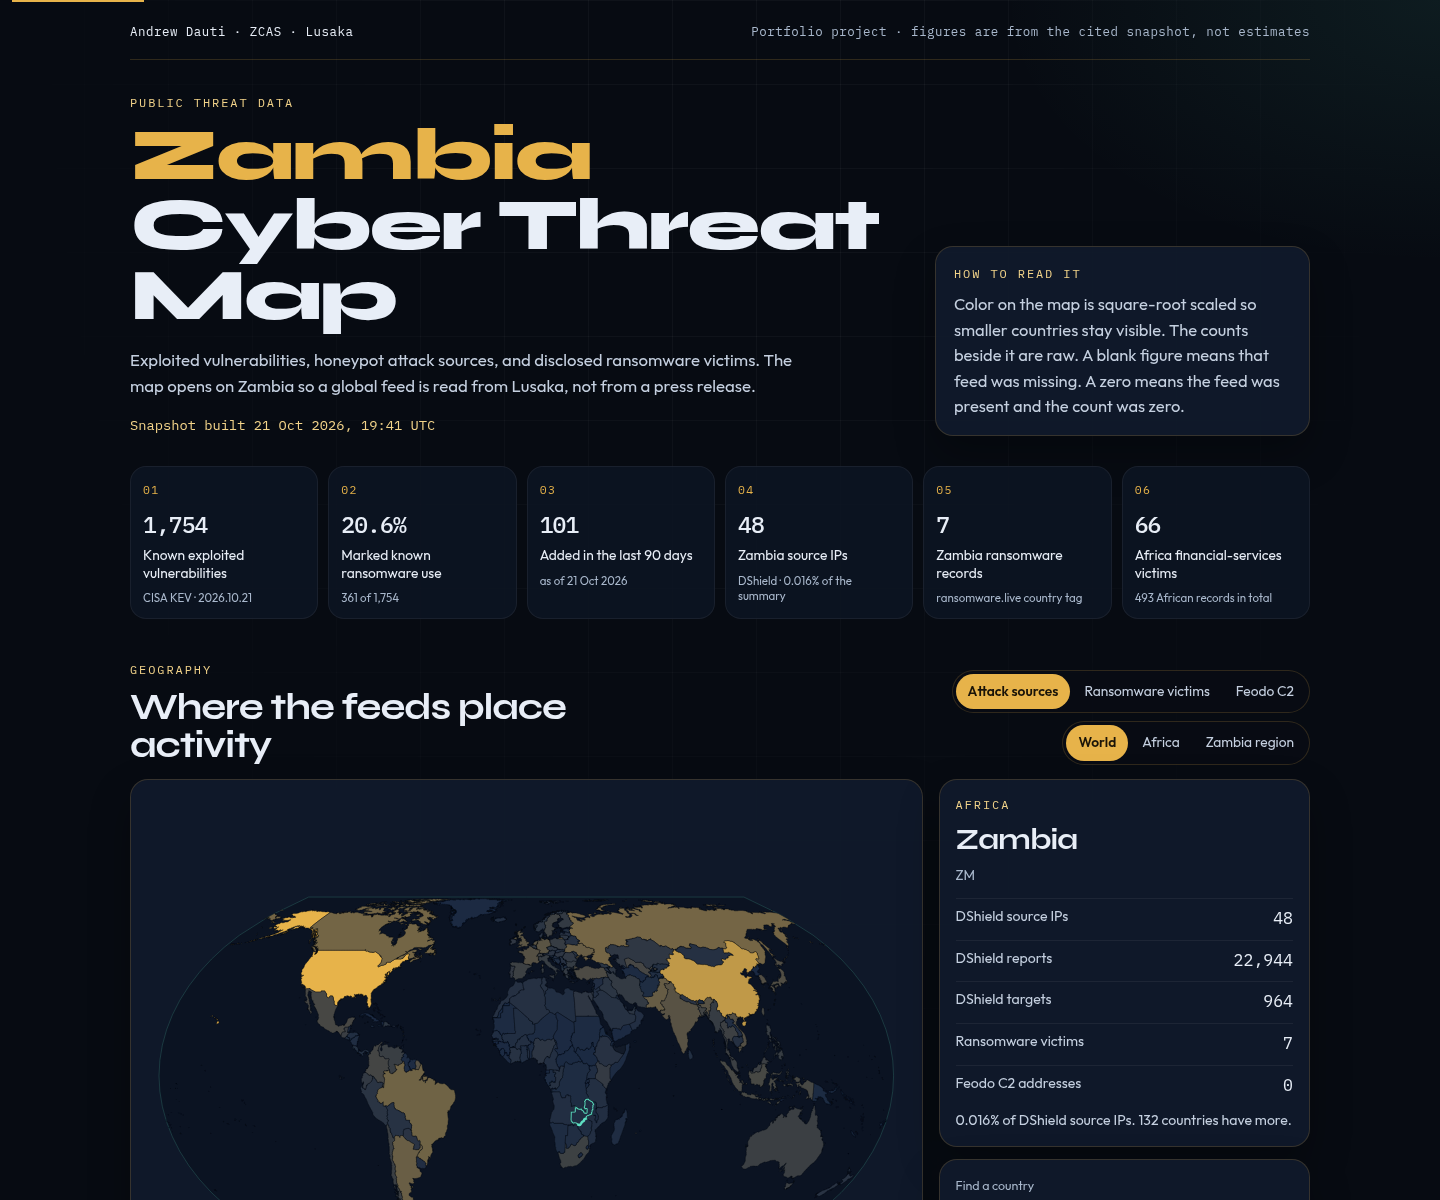
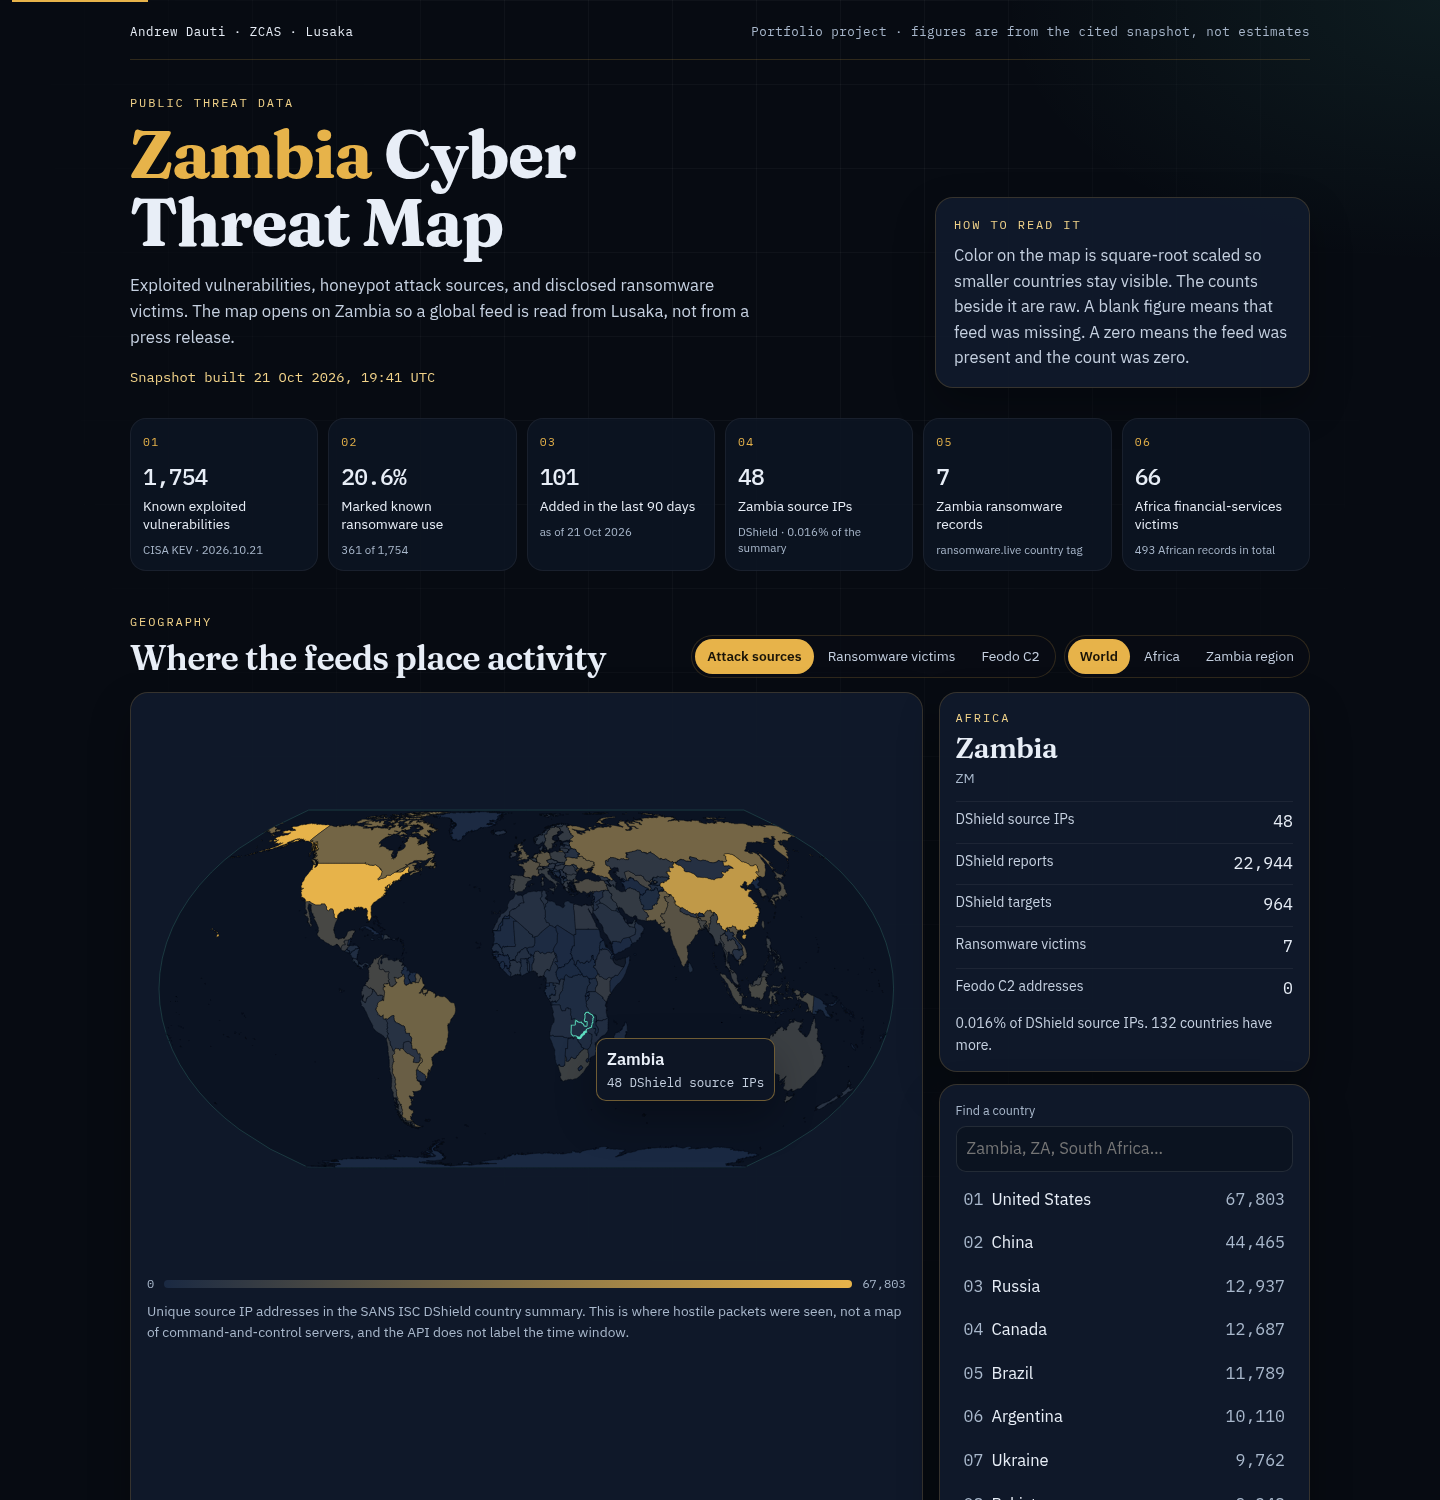
Use Fraunces and IBM Plex for the dashboard type.
Headings are Fraunces, body text is IBM Plex Sans, and figures stay in IBM Plex Mono. The files are self-hosted with font-display: swap, and the map tooltip, bar labels, donut legend, and chart axes use the same stacks.

diff --git a/web/src/style.css b/web/src/style.css
@@ -14,9 +14,9 @@
   --coral: #ff6b6b;
   --track: #1c2a40;
   --shadow: 0 18px 40px rgba(0, 0, 0, 0.28);
-  --display: "Syne", "Arial Narrow", sans-serif;
-  --sans: "Outfit", "Segoe UI", sans-serif;
-  --mono: "IBM Plex Mono", ui-monospace, monospace;
+  --display: "Fraunces", "Iowan Old Style", "Palatino Linotype", Palatino, Georgia, serif;
+  --sans: "IBM Plex Sans", "Segoe UI", sans-serif;
+  --mono: "IBM Plex Mono", "Courier New", monospace;
   --radius: 18px;
 }
 
@@ -68,15 +68,15 @@ body::before {
 
 .skip:focus { top: 12px; }
 
-h1, h2, h3 { font-family: var(--display); letter-spacing: -0.03em; margin: 0; }
-h1 { font-weight: 800; }
-h2, h3 { font-weight: 700; }
+h1, h2, h3 { font-family: var(--display); letter-spacing: -0.02em; margin: 0; }
+h1 { font-weight: 700; }
+h2, h3 { font-weight: 600; }
 
-h1 { font-size: clamp(2.6rem, 6vw, 4.6rem); line-height: 0.95; max-width: 12ch; }
+h1 { font-size: clamp(2.45rem, 5.4vw, 4.15rem); line-height: 1.02; max-width: 11ch; }
 
-h2 { font-size: clamp(1.7rem, 3vw, 2.3rem); line-height: 1.05; }
+h2 { font-size: clamp(1.65rem, 2.8vw, 2.15rem); line-height: 1.12; }
 
-h3 { font-size: 1.15rem; }
+h3 { font-size: 1.2rem; line-height: 1.2; }
 
 p { margin: 0; }
 
@@ -265,7 +265,9 @@ a:hover { color: var(--gold-2); }
 
 .tip strong, .tip span { display: block; }
 
-.tip span { color: var(--muted); font-family: var(--mono); font-size: 0.78rem; }
+.tip strong { font-family: var(--sans); font-weight: 600; }
+
+.tip span { color: var(--muted); font-family: var(--mono); font-size: 0.78rem; font-variant-numeric: tabular-nums; }
 
 .legend-row {
   display: grid;
@@ -377,6 +379,7 @@ input[type="search"] {
   overflow: hidden;
   text-overflow: ellipsis;
   white-space: nowrap;
+  font-family: var(--sans);
   font-size: 0.92rem;
 }
 
@@ -401,7 +404,7 @@ input[type="search"] {
   color: var(--gold-2);
 }
 
-.chart svg { width: 100%; height: auto; display: block; }
+.chart svg { width: 100%; height: auto; display: block; font-family: var(--mono); }
 
 .line { fill: none; stroke: var(--mint); stroke-width: 2; }
 
@@ -435,7 +438,9 @@ input[type="search"] {
 
 .donut-legend { display: grid; gap: 8px; }
 
-.legend-item { display: flex; gap: 8px; align-items: center; color: var(--muted); }
+.legend-item { display: flex; gap: 8px; align-items: baseline; color: var(--muted); font-family: var(--sans); }
+
+.legend-count { font-family: var(--mono); font-variant-numeric: tabular-nums; color: var(--gold-2); }
 
 .swatch { width: 12px; height: 12px; border-radius: 99px; }
 
@@ -489,7 +494,11 @@ caption { text-align: left; color: var(--faint); font-size: 0.82rem; padding: 8p
 
 th, td { padding: 9px 8px; text-align: left; vertical-align: top; border-bottom: 1px solid rgba(255, 255, 255, 0.06); }
 
-th { color: var(--faint); font-size: 0.75rem; letter-spacing: 0.08em; text-transform: uppercase; font-weight: 500; }
+th { color: var(--faint); font-family: var(--sans); font-size: 0.75rem; letter-spacing: 0.08em; text-transform: uppercase; font-weight: 500; }
+
+td { font-family: var(--sans); }
+
+.mono, .mono a { font-family: var(--mono); font-variant-numeric: tabular-nums; font-size: 0.82rem; }
 
 .flag {
   display: inline-block;
@@ -559,6 +568,7 @@ th { color: var(--faint); font-size: 0.75rem; letter-spacing: 0.08em; text-trans
   margin: -1px;
   overflow: hidden;
   clip: rect(0, 0, 0, 0);
+  clip-path: inset(50%);
   white-space: nowrap;
   border: 0;
 }

diff --git a/web/src/main.js b/web/src/main.js
@@ -1,10 +1,10 @@
-import "@fontsource/syne/700.css";
-import "@fontsource/syne/800.css";
-import "@fontsource/outfit/400.css";
-import "@fontsource/outfit/500.css";
-import "@fontsource/outfit/600.css";
-import "@fontsource/ibm-plex-mono/400.css";
-import "@fontsource/ibm-plex-mono/500.css";
+import "@fontsource/fraunces/latin-600.css";
+import "@fontsource/fraunces/latin-700.css";
+import "@fontsource/ibm-plex-sans/latin-400.css";
+import "@fontsource/ibm-plex-sans/latin-500.css";
+import "@fontsource/ibm-plex-sans/latin-600.css";
+import "@fontsource/ibm-plex-mono/latin-400.css";
+import "@fontsource/ibm-plex-mono/latin-500.css";
 import "./style.css";
 
 import { renderBars, renderDonut, renderLegend, renderTimeline } from "./charts.js";
@@ -484,7 +484,7 @@ function renderRecent() {
   }
   for (const item of recent) {
     const row = document.createElement("tr");
-    row.append(cell(formatDay(item.date_added)));
+    row.append(cell(formatDay(item.date_added), true));
     row.append(cveCell(item.cve));
     row.append(cell(item.vendor));
     row.append(cell(item.product));
@@ -501,14 +501,16 @@ function renderRecent() {
   }
 }
 
-function cell(value) {
+function cell(value, mono = false) {
   const td = document.createElement("td");
+  if (mono) td.className = "mono";
   td.textContent = value || "—";
   return td;
 }
 
 function cveCell(cve) {
   const td = document.createElement("td");
+  td.className = "mono";
   if (/^CVE-\d{4}-\d+$/.test(cve)) {
     const link = document.createElement("a");
     link.href = `https://nvd.nist.gov/vuln/detail/${cve}`;

diff --git a/web/src/charts.js b/web/src/charts.js
@@ -8,7 +8,6 @@ import { formatInt } from "./format.js";
 
 function hiddenTable(container, caption, headers, rows) {
   const table = document.createElement("table");
-  table.className = "sr-only";
   const cap = document.createElement("caption");
   cap.textContent = caption;
   table.append(cap);
@@ -32,7 +31,10 @@ function hiddenTable(container, caption, headers, rows) {
     body.append(tr);
   }
   table.append(thead, body);
-  container.append(table);
+  const hidden = document.createElement("div");
+  hidden.className = "sr-only";
+  hidden.append(table);
+  container.append(hidden);
 }
 
 export function renderBars(container, rows, { label, value, caption, empty }) {
@@ -200,8 +202,11 @@ export function renderLegend(container, rows) {
     swatch.className = "swatch";
     swatch.style.background = DONUT_COLORS[row.flag] || "#d7b15a";
     const label = document.createElement("span");
-    label.textContent = `${row.flag} · ${formatInt(row.count)}`;
-    item.append(swatch, label);
+    label.textContent = row.flag;
+    const count = document.createElement("span");
+    count.className = "legend-count";
+    count.textContent = formatInt(row.count);
+    item.append(swatch, label, count);
     container.append(item);
   }
 }

diff --git a/README.md b/README.md
@@ -66,7 +66,7 @@ URLhaus and ThreatFox now require a free [abuse.ch Auth-Key](https://auth.abuse.
 - Python 3.11+ for the pipeline. No third-party packages.
 - [Vite](https://vitejs.dev/) for the static site.
 - [D3](https://d3js.org/) for the map, the monthly area chart, and the ransomware donut. The bar charts are HTML.
-- Fonts are Syne, Outfit, and IBM Plex Mono, bundled with the site so the page does not call a font CDN.
+- Fonts are Fraunces for headings, IBM Plex Sans for body text, and IBM Plex Mono for figures and code. They are self-hosted with `font-display: swap`, so the page does not call a font CDN.
 - GitHub Actions refreshes the snapshot and publishes the site with GitHub Pages.
 
 The site is a build of static files. It does not call the feeds from the browser.
